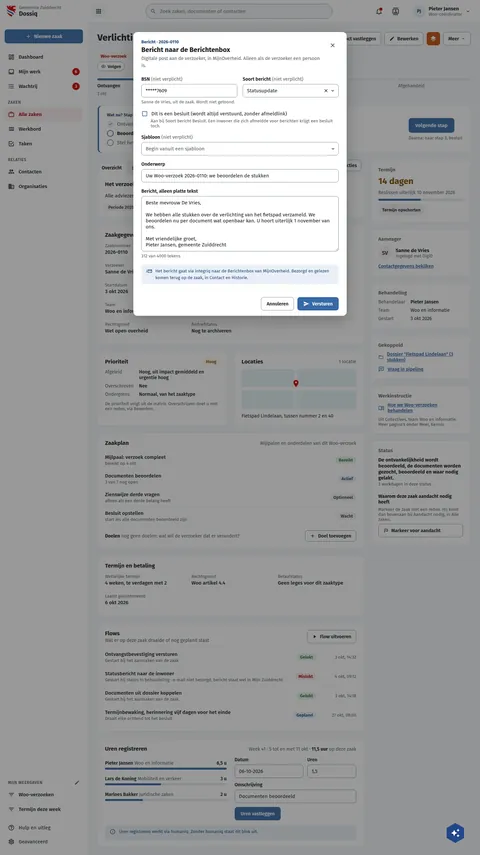
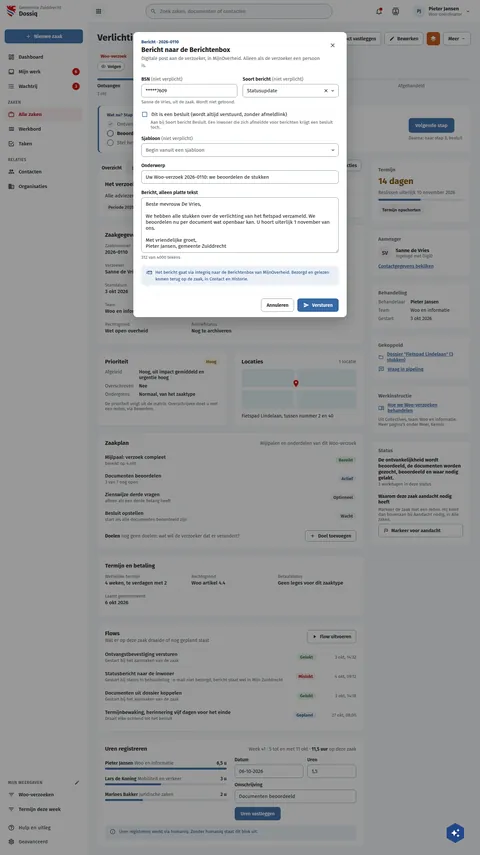
fix(screens): DqBerichtVersturen draws the decision row at the 24px target
The decision checkbox row is drawn 20px high. Live draws every board-dialog
checkbox at the 24px minimum target (WCAG 2.5.8), as DqZaakSamenwerken draws
it, so every field under it measured 4px low (r35 Sjabloon y +4.5).
Rebuilt with build.py --only DqBerichtVersturen.

Assisted-by: ClaudeCode:claude-opus-5-5

Changed region(s): [[0.2812, 0.1216, 0.7188, 0.3649]]

diff --git a/preview/screens/boards/DqBerichtVersturen.html b/preview/screens/boards/DqBerichtVersturen.html
@@ -323,7 +323,7 @@ a{color:var(--sc-primary, #3669a5)}a:hover{color:var(--sc-primary-deep, #234a78)
         <button type="button" aria-label="Sluiten" style="flex: none; width: 36px; height: 36px; display: inline-flex; align-items: center; justify-content: center; border: 0; border-radius: 18px; background: transparent; color: var(--sc-work-text, #3d4047)"><svg width="20" height="20" viewbox="0 0 24 24" fill="currentColor" aria-hidden="true"><path d="M19,6.41L17.59,5L12,10.59L6.41,5L5,6.41L10.59,12L5,17.59L6.41,19L12,13.41L17.59,19L19,17.59L13.41,12L19,6.41Z"></path></svg></button>
       </div>
       <form style="display: flex; flex-direction: column; gap: 18px; padding: 18px 24px 22px">
-<div style="display: grid; grid-template-columns: repeat(auto-fit, minmax(220px, 1fr)); gap: 14px 16px"><div style="display: flex; flex-direction: column; gap: 6px; min-width: 0"><label for="f4" style="font-size: 14px; font-weight: 600">BSN<span style="font-weight: 400; color: var(--sc-work-muted, #5e6168)"> (niet verplicht)</span></label><input id="f4" type="text" value="*****7609" style="box-sizing: border-box; width: 100%; height: 40px; padding: 0 12px; border: 1px solid var(--sc-work-field, #828a95); border-radius: 8px; background: #ffffff; font: 400 15px var(--sc-font, 'Fira Sans'), sans-serif; color: var(--sc-work-ink, #1b1c1d)"><span style="font-size: 13px; color: var(--sc-work-muted, #5e6168)">Sanne de Vries, uit de zaak. Wordt niet getoond.</span></div><div style="display: flex; flex-direction: column; gap: 6px; min-width: 0"><label for="f5" style="font-size: 14px; font-weight: 600">Soort bericht<span style="font-weight: 400; color: var(--sc-work-muted, #5e6168)"> (niet verplicht)</span></label><div style="position: relative"><span id="f5" role="combobox" aria-expanded="false" style="box-sizing: border-box; width: 100%; height: 40px; border: 1px solid var(--sc-work-field, #828a95); border-radius: 8px; background: #ffffff; font: 400 15px var(--sc-font, 'Fira Sans'), sans-serif; color: var(--sc-work-ink, #1b1c1d); display: flex; align-items: center; gap: 8px; padding: 0 56px 0 12px"><span style="min-width: 0">Statusupdate</span></span><button type="button" aria-label="Selectie wissen" style="position: absolute; right: 28px; top: 10px; width: 20px; height: 20px; display: inline-flex; align-items: center; justify-content: center; border: 0; background: transparent; color: var(--sc-work-ink, #1b1c1d); padding: 0"><svg width="16" height="16" viewbox="0 0 24 24" fill="currentColor" aria-hidden="true"><path d="M19,6.41L17.59,5L12,10.59L6.41,5L5,6.41L10.59,12L5,17.59L6.41,19L12,13.41L17.59,19L19,17.59L13.41,12L19,6.41Z"></path></svg></button><span aria-hidden="true" style="position: absolute; right: 10px; top: 12px; display: inline-flex; color: var(--sc-work-ink, #1b1c1d)"><svg width="16" height="16" viewbox="0 0 24 24" fill="currentColor" aria-hidden="true"><path d="M7.41,8.58L12,13.17L16.59,8.58L18,10L12,16L6,10L7.41,8.58Z"></path></svg></span></div></div></div><div style="display: flex; flex-direction: column; gap: 4px"><label for="f5b" style="display: flex; align-items: center; gap: 10px; font-size: 15px"><input id="f5b" type="checkbox" style="position: absolute; width: 1px; height: 1px; margin: -1px; overflow: hidden; clip: rect(0 0 0 0); white-space: nowrap; border: 0"><svg width="20" height="20" viewbox="0 0 24 24" fill="#3669a5" aria-hidden="true" style="flex: none;fill:var(--sc-primary, #3669a5)"><path d="M19,3H5C3.89,3 3,3.89 3,5V19A2,2 0 0,0 5,21H19A2,2 0 0,0 21,19V5C21,3.89 20.1,3 19,3M19,5V19H5V5H19Z"></path></svg>Dit is een besluit (wordt altijd verstuurd, zonder afmeldlink)</label><span style="font-size: 13px; color: var(--sc-work-muted, #5e6168); padding-left: 28px">Aan bij Soort bericht Besluit. Een inwoner die zich afmeldde voor berichten krijgt een besluit toch.</span></div><div style="display: flex; flex-direction: column; gap: 6px; min-width: 0"><label for="f5c" style="font-size: 14px; font-weight: 600">Sjabloon<span style="font-weight: 400; color: var(--sc-work-muted, #5e6168)"> (niet verplicht)</span></label><div id="f5c" role="combobox" aria-expanded="false" style="box-sizing: border-box; width: 100%; height: 40px; padding: 0 8px 0 12px; border: 1px solid var(--sc-work-field, #828a95); border-radius: 8px; background: #ffffff; font: 400 15px var(--sc-font, 'Fira Sans'), sans-serif; color: var(--sc-work-muted, #5e6168); display: flex; align-items: center; gap: 4px"><span style="flex: 1 1 auto; min-width: 0">Begin vanuit een sjabloon</span><span style="display: inline-flex; color: var(--sc-work-ink, #1b1c1d)"><svg width="16" height="16" viewbox="0 0 24 24" fill="currentColor" aria-hidden="true"><path d="M7.41,8.58L12,13.17L16.59,8.58L18,10L12,16L6,10L7.41,8.58Z"></path></svg></span></div></div><div style="display: flex; flex-direction: column; gap: 6px; min-width: 0"><label for="f6" style="font-size: 14px; font-weight: 600">Onderwerp</label><input id="f6" type="text" value="Uw Woo-verzoek 2026-0110: we beoordelen de stukken" required style="box-sizing: border-box; width: 100%; height: 40px; padding: 0 12px; border: 1px solid var(--sc-work-field, #828a95); border-radius: 8px; background: #ffffff; font: 400 15px var(--sc-font, 'Fira Sans'), sans-serif; color: var(--sc-work-ink, #1b1c1d)"></div><div style="display: flex; flex-direction: column; gap: 6px; min-width: 0"><label for="f7" style="font-size: 14px; font-weight: 600">Bericht, alleen platte tekst</label><textarea id="f7" rows="8" style="box-sizing: border-box; width: 100%; padding: 10px 12px; border: 1px solid var(--sc-work-field, #828a95); border-radius: 8px; font: 400 15px var(--sc-font, 'Fira Sans'), sans-serif; color: var(--sc-work-ink, #1b1c1d); line-height: normal; resize: vertical">Beste mevrouw De Vries,
+<div style="display: grid; grid-template-columns: repeat(auto-fit, minmax(220px, 1fr)); gap: 14px 16px"><div style="display: flex; flex-direction: column; gap: 6px; min-width: 0"><label for="f4" style="font-size: 14px; font-weight: 600">BSN<span style="font-weight: 400; color: var(--sc-work-muted, #5e6168)"> (niet verplicht)</span></label><input id="f4" type="text" value="*****7609" style="box-sizing: border-box; width: 100%; height: 40px; padding: 0 12px; border: 1px solid var(--sc-work-field, #828a95); border-radius: 8px; background: #ffffff; font: 400 15px var(--sc-font, 'Fira Sans'), sans-serif; color: var(--sc-work-ink, #1b1c1d)"><span style="font-size: 13px; color: var(--sc-work-muted, #5e6168)">Sanne de Vries, uit de zaak. Wordt niet getoond.</span></div><div style="display: flex; flex-direction: column; gap: 6px; min-width: 0"><label for="f5" style="font-size: 14px; font-weight: 600">Soort bericht<span style="font-weight: 400; color: var(--sc-work-muted, #5e6168)"> (niet verplicht)</span></label><div style="position: relative"><span id="f5" role="combobox" aria-expanded="false" style="box-sizing: border-box; width: 100%; height: 40px; border: 1px solid var(--sc-work-field, #828a95); border-radius: 8px; background: #ffffff; font: 400 15px var(--sc-font, 'Fira Sans'), sans-serif; color: var(--sc-work-ink, #1b1c1d); display: flex; align-items: center; gap: 8px; padding: 0 56px 0 12px"><span style="min-width: 0">Statusupdate</span></span><button type="button" aria-label="Selectie wissen" style="position: absolute; right: 28px; top: 10px; width: 20px; height: 20px; display: inline-flex; align-items: center; justify-content: center; border: 0; background: transparent; color: var(--sc-work-ink, #1b1c1d); padding: 0"><svg width="16" height="16" viewbox="0 0 24 24" fill="currentColor" aria-hidden="true"><path d="M19,6.41L17.59,5L12,10.59L6.41,5L5,6.41L10.59,12L5,17.59L6.41,19L12,13.41L17.59,19L19,17.59L13.41,12L19,6.41Z"></path></svg></button><span aria-hidden="true" style="position: absolute; right: 10px; top: 12px; display: inline-flex; color: var(--sc-work-ink, #1b1c1d)"><svg width="16" height="16" viewbox="0 0 24 24" fill="currentColor" aria-hidden="true"><path d="M7.41,8.58L12,13.17L16.59,8.58L18,10L12,16L6,10L7.41,8.58Z"></path></svg></span></div></div></div><div style="display: flex; flex-direction: column; gap: 4px"><label for="f5b" style="display: flex; align-items: center; gap: 10px; min-height: 24px; font-size: 15px"><input id="f5b" type="checkbox" style="position: absolute; width: 1px; height: 1px; margin: -1px; overflow: hidden; clip: rect(0 0 0 0); white-space: nowrap; border: 0"><svg width="20" height="20" viewbox="0 0 24 24" fill="#3669a5" aria-hidden="true" style="flex: none;fill:var(--sc-primary, #3669a5)"><path d="M19,3H5C3.89,3 3,3.89 3,5V19A2,2 0 0,0 5,21H19A2,2 0 0,0 21,19V5C21,3.89 20.1,3 19,3M19,5V19H5V5H19Z"></path></svg>Dit is een besluit (wordt altijd verstuurd, zonder afmeldlink)</label><span style="font-size: 13px; color: var(--sc-work-muted, #5e6168); padding-left: 28px">Aan bij Soort bericht Besluit. Een inwoner die zich afmeldde voor berichten krijgt een besluit toch.</span></div><div style="display: flex; flex-direction: column; gap: 6px; min-width: 0"><label for="f5c" style="font-size: 14px; font-weight: 600">Sjabloon<span style="font-weight: 400; color: var(--sc-work-muted, #5e6168)"> (niet verplicht)</span></label><div id="f5c" role="combobox" aria-expanded="false" style="box-sizing: border-box; width: 100%; height: 40px; padding: 0 8px 0 12px; border: 1px solid var(--sc-work-field, #828a95); border-radius: 8px; background: #ffffff; font: 400 15px var(--sc-font, 'Fira Sans'), sans-serif; color: var(--sc-work-muted, #5e6168); display: flex; align-items: center; gap: 4px"><span style="flex: 1 1 auto; min-width: 0">Begin vanuit een sjabloon</span><span style="display: inline-flex; color: var(--sc-work-ink, #1b1c1d)"><svg width="16" height="16" viewbox="0 0 24 24" fill="currentColor" aria-hidden="true"><path d="M7.41,8.58L12,13.17L16.59,8.58L18,10L12,16L6,10L7.41,8.58Z"></path></svg></span></div></div><div style="display: flex; flex-direction: column; gap: 6px; min-width: 0"><label for="f6" style="font-size: 14px; font-weight: 600">Onderwerp</label><input id="f6" type="text" value="Uw Woo-verzoek 2026-0110: we beoordelen de stukken" required style="box-sizing: border-box; width: 100%; height: 40px; padding: 0 12px; border: 1px solid var(--sc-work-field, #828a95); border-radius: 8px; background: #ffffff; font: 400 15px var(--sc-font, 'Fira Sans'), sans-serif; color: var(--sc-work-ink, #1b1c1d)"></div><div style="display: flex; flex-direction: column; gap: 6px; min-width: 0"><label for="f7" style="font-size: 14px; font-weight: 600">Bericht, alleen platte tekst</label><textarea id="f7" rows="8" style="box-sizing: border-box; width: 100%; padding: 10px 12px; border: 1px solid var(--sc-work-field, #828a95); border-radius: 8px; font: 400 15px var(--sc-font, 'Fira Sans'), sans-serif; color: var(--sc-work-ink, #1b1c1d); line-height: normal; resize: vertical">Beste mevrouw De Vries,
 
 We hebben alle stukken over de verlichting van het fietspad verzameld. We beoordelen nu per document wat openbaar kan. U hoort uiterlijk 1 november van ons.
 

diff --git a/screens-src/zuiddrecht/DqBerichtVersturen.dc.html b/screens-src/zuiddrecht/DqBerichtVersturen.dc.html
@@ -173,7 +173,7 @@ a{color:#3669a5}a:hover{color:#234a78}
         <button type="button" aria-label="Sluiten" style="flex: none; width: 36px; height: 36px; display: inline-flex; align-items: center; justify-content: center; border: 0; border-radius: 18px; background: transparent; color: #3d4047"><svg width="20" height="20" viewBox="0 0 24 24" fill="currentColor" aria-hidden="true"><path d="M19,6.41L17.59,5L12,10.59L6.41,5L5,6.41L10.59,12L5,17.59L6.41,19L12,13.41L17.59,19L19,17.59L13.41,12L19,6.41Z"></path></svg></button>
       </div>
       <form style="display: flex; flex-direction: column; gap: 18px; padding: 18px 24px 22px">
-<div style="display: grid; grid-template-columns: repeat(auto-fit, minmax(220px, 1fr)); gap: 14px 16px"><div style="display: flex; flex-direction: column; gap: 6px; min-width: 0"><label for="f4" style="font-size: 14px; font-weight: 600">BSN<span style="font-weight: 400; color: #5e6168"> (niet verplicht)</span></label><input id="f4" type="text" value="*****7609" style="box-sizing: border-box; width: 100%; height: 40px; padding: 0 12px; border: 1px solid #828a95; border-radius: 8px; background: #ffffff; font: 400 15px 'Fira Sans', sans-serif; color: #1b1c1d"><span style="font-size: 13px; color: #5e6168">Sanne de Vries, uit de zaak. Wordt niet getoond.</span></div><div style="display: flex; flex-direction: column; gap: 6px; min-width: 0"><label for="f5" style="font-size: 14px; font-weight: 600">Soort bericht<span style="font-weight: 400; color: #5e6168"> (niet verplicht)</span></label><div style="position: relative"><span id="f5" role="combobox" aria-expanded="false" style="box-sizing: border-box; width: 100%; height: 40px; border: 1px solid #828a95; border-radius: 8px; background: #ffffff; font: 400 15px 'Fira Sans', sans-serif; color: #1b1c1d; display: flex; align-items: center; gap: 8px; padding: 0 56px 0 12px"><span style="min-width: 0">Statusupdate</span></span><button type="button" aria-label="Selectie wissen" style="position: absolute; right: 28px; top: 10px; width: 20px; height: 20px; display: inline-flex; align-items: center; justify-content: center; border: 0; background: transparent; color: #1b1c1d; padding: 0"><svg width="16" height="16" viewBox="0 0 24 24" fill="currentColor" aria-hidden="true"><path d="M19,6.41L17.59,5L12,10.59L6.41,5L5,6.41L10.59,12L5,17.59L6.41,19L12,13.41L17.59,19L19,17.59L13.41,12L19,6.41Z"></path></svg></button><span aria-hidden="true" style="position: absolute; right: 10px; top: 12px; display: inline-flex; color: #1b1c1d"><svg width="16" height="16" viewBox="0 0 24 24" fill="currentColor" aria-hidden="true"><path d="M7.41,8.58L12,13.17L16.59,8.58L18,10L12,16L6,10L7.41,8.58Z"></path></svg></span></div></div></div><div style="display: flex; flex-direction: column; gap: 4px"><label for="f5b" style="display: flex; align-items: center; gap: 10px; font-size: 15px"><input id="f5b" type="checkbox" style="position: absolute; width: 1px; height: 1px; margin: -1px; overflow: hidden; clip: rect(0 0 0 0); white-space: nowrap; border: 0"><svg width="20" height="20" viewBox="0 0 24 24" fill="#3669a5" aria-hidden="true" style="flex: none"><path d="M19,3H5C3.89,3 3,3.89 3,5V19A2,2 0 0,0 5,21H19A2,2 0 0,0 21,19V5C21,3.89 20.1,3 19,3M19,5V19H5V5H19Z"></path></svg>Dit is een besluit (wordt altijd verstuurd, zonder afmeldlink)</label><span style="font-size: 13px; color: #5e6168; padding-left: 28px">Aan bij Soort bericht Besluit. Een inwoner die zich afmeldde voor berichten krijgt een besluit toch.</span></div><div style="display: flex; flex-direction: column; gap: 6px; min-width: 0"><label for="f5c" style="font-size: 14px; font-weight: 600">Sjabloon<span style="font-weight: 400; color: #5e6168"> (niet verplicht)</span></label><div id="f5c" role="combobox" aria-expanded="false" style="box-sizing: border-box; width: 100%; height: 40px; padding: 0 8px 0 12px; border: 1px solid #828a95; border-radius: 8px; background: #ffffff; font: 400 15px 'Fira Sans', sans-serif; color: #5e6168; display: flex; align-items: center; gap: 4px"><span style="flex: 1 1 auto; min-width: 0">Begin vanuit een sjabloon</span><span style="display: inline-flex; color: #1b1c1d"><svg width="16" height="16" viewBox="0 0 24 24" fill="currentColor" aria-hidden="true"><path d="M7.41,8.58L12,13.17L16.59,8.58L18,10L12,16L6,10L7.41,8.58Z"></path></svg></span></div></div><div style="display: flex; flex-direction: column; gap: 6px; min-width: 0"><label for="f6" style="font-size: 14px; font-weight: 600">Onderwerp</label><input id="f6" type="text" value="Uw Woo-verzoek 2026-0110: we beoordelen de stukken" required style="box-sizing: border-box; width: 100%; height: 40px; padding: 0 12px; border: 1px solid #828a95; border-radius: 8px; background: #ffffff; font: 400 15px 'Fira Sans', sans-serif; color: #1b1c1d"></div><div style="display: flex; flex-direction: column; gap: 6px; min-width: 0"><label for="f7" style="font-size: 14px; font-weight: 600">Bericht, alleen platte tekst</label><textarea id="f7" rows="8" style="box-sizing: border-box; width: 100%; padding: 10px 12px; border: 1px solid #828a95; border-radius: 8px; font: 400 15px 'Fira Sans', sans-serif; color: #1b1c1d; line-height: normal; resize: vertical">Beste mevrouw De Vries,
+<div style="display: grid; grid-template-columns: repeat(auto-fit, minmax(220px, 1fr)); gap: 14px 16px"><div style="display: flex; flex-direction: column; gap: 6px; min-width: 0"><label for="f4" style="font-size: 14px; font-weight: 600">BSN<span style="font-weight: 400; color: #5e6168"> (niet verplicht)</span></label><input id="f4" type="text" value="*****7609" style="box-sizing: border-box; width: 100%; height: 40px; padding: 0 12px; border: 1px solid #828a95; border-radius: 8px; background: #ffffff; font: 400 15px 'Fira Sans', sans-serif; color: #1b1c1d"><span style="font-size: 13px; color: #5e6168">Sanne de Vries, uit de zaak. Wordt niet getoond.</span></div><div style="display: flex; flex-direction: column; gap: 6px; min-width: 0"><label for="f5" style="font-size: 14px; font-weight: 600">Soort bericht<span style="font-weight: 400; color: #5e6168"> (niet verplicht)</span></label><div style="position: relative"><span id="f5" role="combobox" aria-expanded="false" style="box-sizing: border-box; width: 100%; height: 40px; border: 1px solid #828a95; border-radius: 8px; background: #ffffff; font: 400 15px 'Fira Sans', sans-serif; color: #1b1c1d; display: flex; align-items: center; gap: 8px; padding: 0 56px 0 12px"><span style="min-width: 0">Statusupdate</span></span><button type="button" aria-label="Selectie wissen" style="position: absolute; right: 28px; top: 10px; width: 20px; height: 20px; display: inline-flex; align-items: center; justify-content: center; border: 0; background: transparent; color: #1b1c1d; padding: 0"><svg width="16" height="16" viewBox="0 0 24 24" fill="currentColor" aria-hidden="true"><path d="M19,6.41L17.59,5L12,10.59L6.41,5L5,6.41L10.59,12L5,17.59L6.41,19L12,13.41L17.59,19L19,17.59L13.41,12L19,6.41Z"></path></svg></button><span aria-hidden="true" style="position: absolute; right: 10px; top: 12px; display: inline-flex; color: #1b1c1d"><svg width="16" height="16" viewBox="0 0 24 24" fill="currentColor" aria-hidden="true"><path d="M7.41,8.58L12,13.17L16.59,8.58L18,10L12,16L6,10L7.41,8.58Z"></path></svg></span></div></div></div><div style="display: flex; flex-direction: column; gap: 4px"><label for="f5b" style="display: flex; align-items: center; gap: 10px; min-height: 24px; font-size: 15px"><input id="f5b" type="checkbox" style="position: absolute; width: 1px; height: 1px; margin: -1px; overflow: hidden; clip: rect(0 0 0 0); white-space: nowrap; border: 0"><svg width="20" height="20" viewBox="0 0 24 24" fill="#3669a5" aria-hidden="true" style="flex: none"><path d="M19,3H5C3.89,3 3,3.89 3,5V19A2,2 0 0,0 5,21H19A2,2 0 0,0 21,19V5C21,3.89 20.1,3 19,3M19,5V19H5V5H19Z"></path></svg>Dit is een besluit (wordt altijd verstuurd, zonder afmeldlink)</label><span style="font-size: 13px; color: #5e6168; padding-left: 28px">Aan bij Soort bericht Besluit. Een inwoner die zich afmeldde voor berichten krijgt een besluit toch.</span></div><div style="display: flex; flex-direction: column; gap: 6px; min-width: 0"><label for="f5c" style="font-size: 14px; font-weight: 600">Sjabloon<span style="font-weight: 400; color: #5e6168"> (niet verplicht)</span></label><div id="f5c" role="combobox" aria-expanded="false" style="box-sizing: border-box; width: 100%; height: 40px; padding: 0 8px 0 12px; border: 1px solid #828a95; border-radius: 8px; background: #ffffff; font: 400 15px 'Fira Sans', sans-serif; color: #5e6168; display: flex; align-items: center; gap: 4px"><span style="flex: 1 1 auto; min-width: 0">Begin vanuit een sjabloon</span><span style="display: inline-flex; color: #1b1c1d"><svg width="16" height="16" viewBox="0 0 24 24" fill="currentColor" aria-hidden="true"><path d="M7.41,8.58L12,13.17L16.59,8.58L18,10L12,16L6,10L7.41,8.58Z"></path></svg></span></div></div><div style="display: flex; flex-direction: column; gap: 6px; min-width: 0"><label for="f6" style="font-size: 14px; font-weight: 600">Onderwerp</label><input id="f6" type="text" value="Uw Woo-verzoek 2026-0110: we beoordelen de stukken" required style="box-sizing: border-box; width: 100%; height: 40px; padding: 0 12px; border: 1px solid #828a95; border-radius: 8px; background: #ffffff; font: 400 15px 'Fira Sans', sans-serif; color: #1b1c1d"></div><div style="display: flex; flex-direction: column; gap: 6px; min-width: 0"><label for="f7" style="font-size: 14px; font-weight: 600">Bericht, alleen platte tekst</label><textarea id="f7" rows="8" style="box-sizing: border-box; width: 100%; padding: 10px 12px; border: 1px solid #828a95; border-radius: 8px; font: 400 15px 'Fira Sans', sans-serif; color: #1b1c1d; line-height: normal; resize: vertical">Beste mevrouw De Vries,
 
 We hebben alle stukken over de verlichting van het fietspad verzameld. We beoordelen nu per document wat openbaar kan. U hoort uiterlijk 1 november van ons.
 
